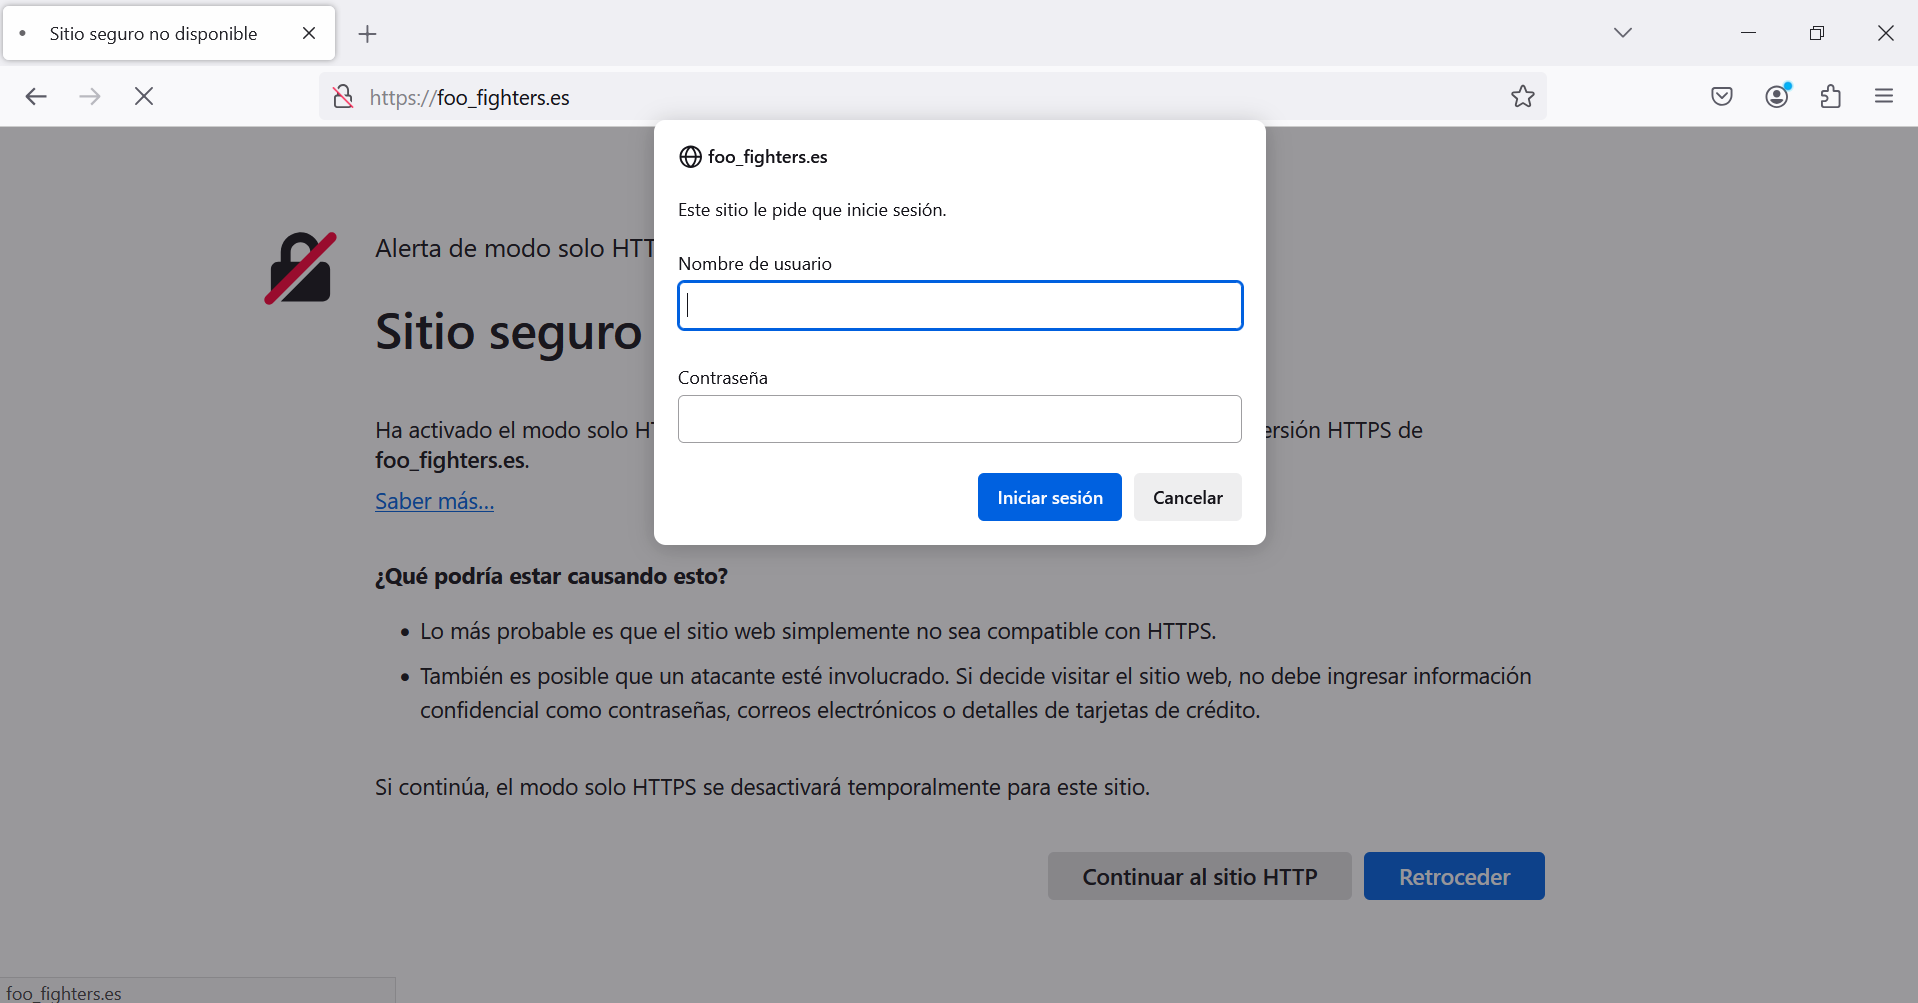
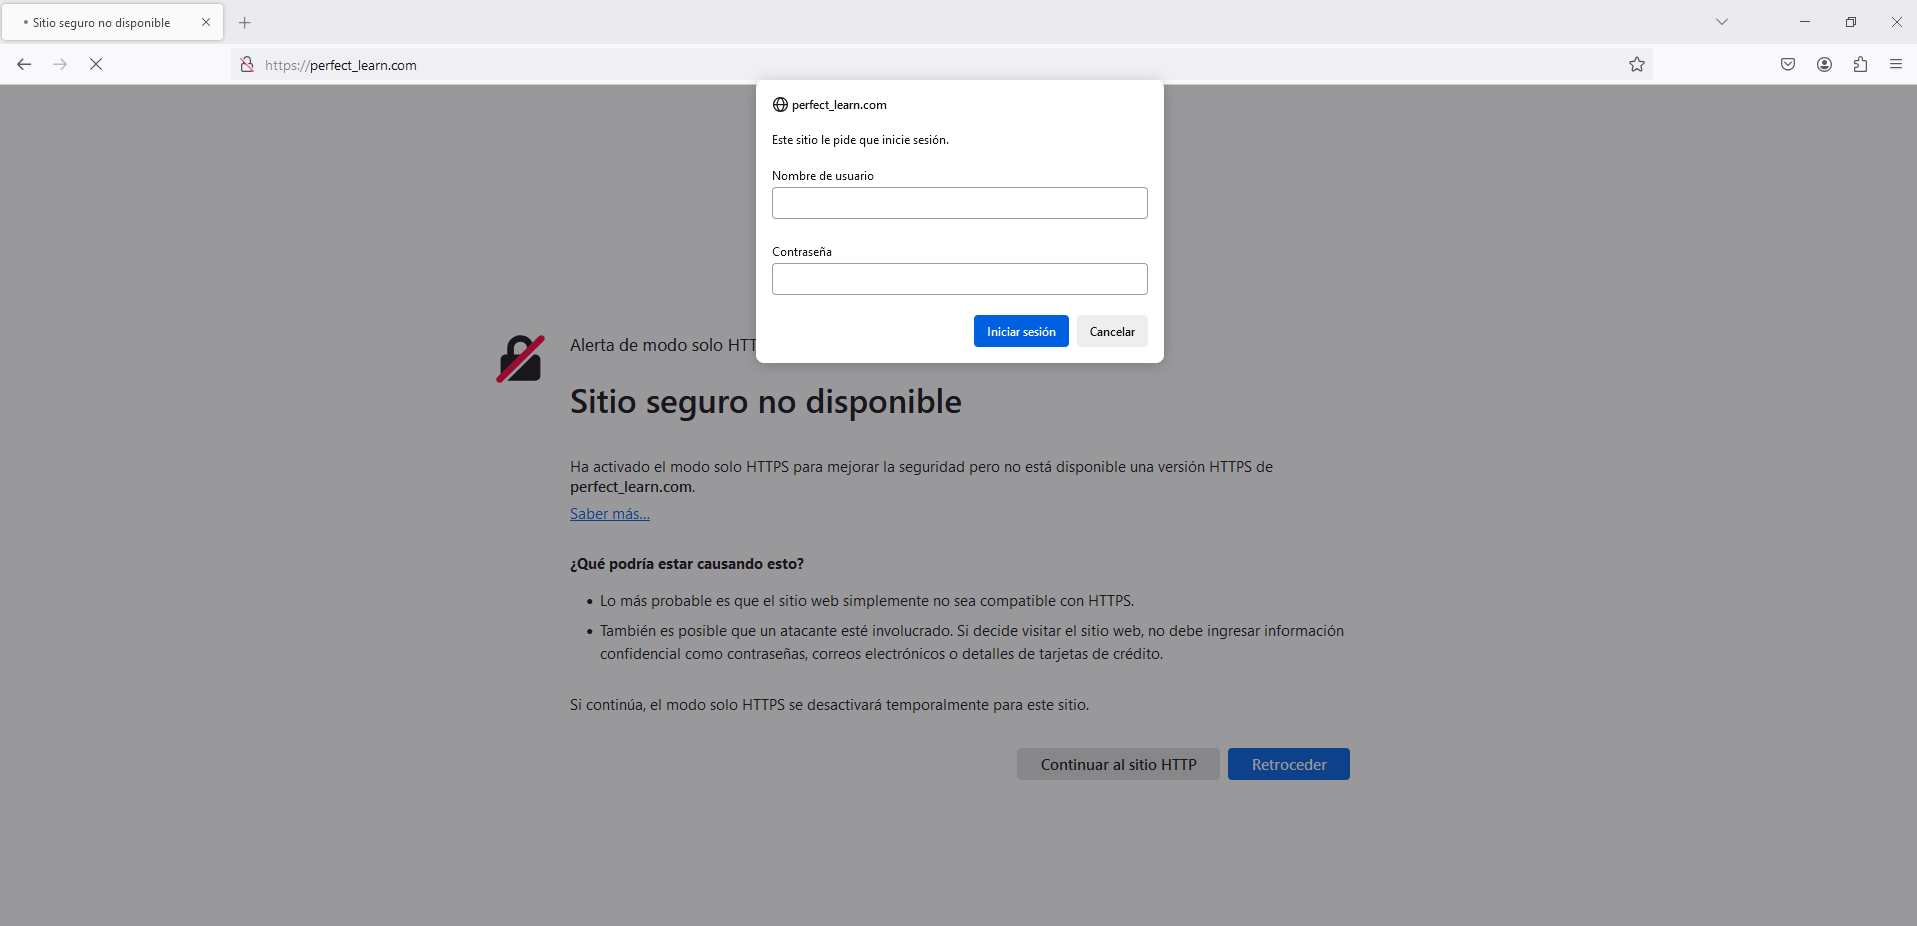
Práctica 2 - Tarea 2.1 T.2

diff --git a/README.md b/README.md
@@ -156,7 +156,7 @@ Se vuelve a editar el archivo /etc/hosts para que asocie la IP de la máquina vi
     En Windows está en el siguiente directorio:  
     `C:\Windows\System32\drivers\etc\hosts`  
     Se cambia la asociación inicial:  
-    `192.168.0.2 foo_fighters`
+    `192.168.0.2 foo_fighters.es`
 
 <br>
 
@@ -220,8 +220,30 @@ server {
 
 `sudo systemctl restart nginx`
 
+Se vuelve a editar el archivo /etc/hosts para que asocie la IP de la máquina virtual a nginx_server.  
+    En Windows está en el siguiente directorio:  
+    `C:\Windows\System32\drivers\etc\hosts`  
+    Se cambia la asociación inicial:  
+    `192.168.0.2 perfect_learn.com`
+
+<img src="./htdocs/5.png">
+
+<br>
+
+<img src="./htdocs/6.png">
+
+<br>
+
+Si se introducen mal las credenciales, volverá a pedirlas.  
 Si se cancela la autentificación, muestra el error `401 Authorization Required`.
 
+<img src="./htdocs/7.png">
 
-access.log  
-error.log
+<br>
+
+En `error.log` quedan registrados los accesos erróneos junto a la causa, como *user not found* o *password mismatch*, y demás información.  
+En `access.log` se registran todos los accesos, tanto erróneos como exitosos, junto a un código numérico.
+- *200* para accesos exitosos.
+- *401* para intentos fallidos.
+
+<img src="./htdocs/8.png">
